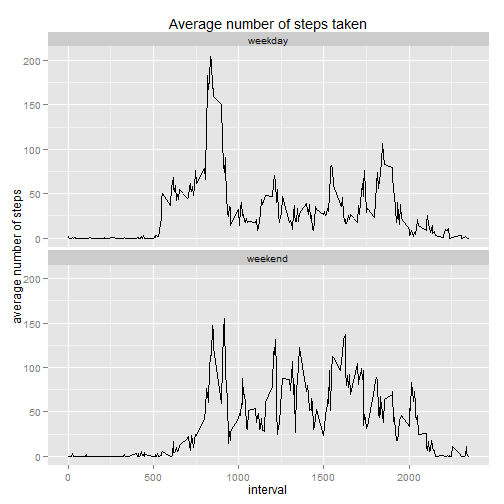
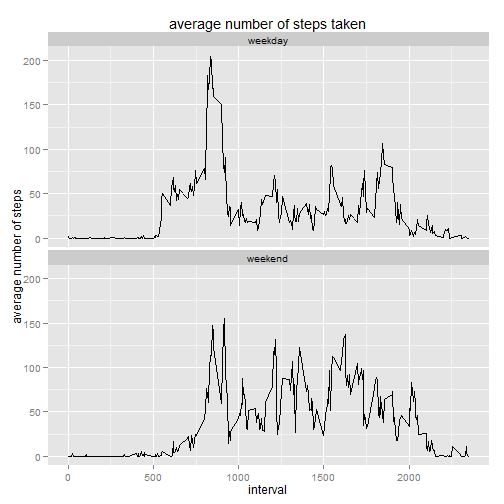
second commit with all files combined in one commit, i.e. PA1_template.Rmd, PA1_template.md, PA1_template.html & figures

Changed region(s): [[0.3274, 0.0298, 0.744, 0.0595]]

diff --git a/PA1_template.html b/PA1_template.html
@@ -296,8 +296,8 @@ stepsDay
 hist(stepsDay$steps_per_day, 
 
      col = &quot;deepskyblue&quot;,
-     main = &quot;Histogram of total number of steps taken per day&quot;,
-     xlab = &quot;Total number of steps per day&quot;
+     main = &quot;histogram of total number of steps taken per day&quot;,
+     xlab = &quot;total number of steps per day&quot;
      )
 
 ## superimpose two vertical lines on the histogram, representing the mean and median of steps taken per day
@@ -306,7 +306,7 @@ abline(v = mean(stepsDay$steps_per_day), lwd = 2, col = &quot;red&quot;)
 abline(v = median(stepsDay$steps_per_day), lwd = 2, col = &quot;green4&quot;)
 </code></pre>
 
[2 lines of base64/hex data omitted]
 
 <pre><code class="r">## calculate and report the mean and median of the total number of steps taken per day
 
@@ -362,12 +362,12 @@ with(averageSteps,
 
                 type = &quot;l&quot;, 
                 xlab = &quot;&quot;, 
-                ylab = &quot;Average number of steps&quot;,
-                main = &quot;Average number of steps acrosss all days&quot;)
+                ylab = &quot;average number of steps&quot;,
+                main = &quot;average number of steps acrosss all days&quot;)
         )
 </code></pre>
 
[2 lines of base64/hex data omitted]
 
 <pre><code class="r">## Calculate and report the 5-minute interval that contains on average across
 ## all days the maximum number of steps.
@@ -481,8 +481,8 @@ stepsDayNew
 <pre><code class="r">hist(stepsDayNew$steps_per_day,
 
      col = &quot;deepskyblue&quot;,
-     main = &quot;Total number of steps per day with inputted daily median values&quot;,
-     xlab = &quot;Total number of steps per day&quot;
+     main = &quot;total number of steps per day with inputted daily median values&quot;,
+     xlab = &quot;total number of steps per day&quot;
 
      )
 
@@ -490,7 +490,7 @@ abline(v = mean(stepsDayNew$steps_per_day), lwd = 2, col = &quot;red&quot;)
 abline(v = median(stepsDayNew$steps_per_day), lwd = 2, col = &quot;green4&quot;)
 </code></pre>
 
[2 lines of base64/hex data omitted]
 
 <pre><code class="r">summary(stepsDayNew$steps_per_day)
 </code></pre>
@@ -602,10 +602,10 @@ library(ggplot2)
 
 g &lt;- ggplot(paneldf, aes(interval, average_steps))
 
-g + geom_line() + facet_wrap( ~ type_of_day , nrow = 2, ncol = 1) + labs(title = &quot;Average number of steps taken&quot;) + labs(x= &quot;interval&quot;, y = &quot;average number of steps&quot;)
+g + geom_line() + facet_wrap( ~ type_of_day , nrow = 2, ncol = 1) + labs(title = &quot;average number of steps taken&quot;) + labs(x= &quot;interval&quot;, y = &quot;average number of steps&quot;)
 </code></pre>
 
[2 lines of base64/hex data omitted]
 
 </body>
 

diff --git a/PA1_template.md b/PA1_template.md
@@ -1,8 +1,8 @@
 # Peer_Assessment_1_Coursera_Reproducible_Research
 
-author: Micha Bouts
+  author: Micha Bouts
 
-date: Tuesday, August 4th, 2015
+  date: Tuesday, August 4th, 2015
 
 
 ### Description of working environment
@@ -106,8 +106,8 @@ stepsDay
 hist(stepsDay$steps_per_day, 
      
      col = "deepskyblue",
-     main = "Histogram of total number of steps taken per day",
-     xlab = "Total number of steps per day"
+     main = "histogram of total number of steps taken per day",
+     xlab = "total number of steps per day"
      )
 
 ## superimpose two vertical lines on the histogram, representing the mean and median of steps taken per day
@@ -177,8 +177,8 @@ with(averageSteps,
                 
                 type = "l", 
                 xlab = "", 
-                ylab = "Average number of steps",
-                main = "Average number of steps acrosss all days")
+                ylab = "average number of steps",
+                main = "average number of steps acrosss all days")
         )
 ```
 
@@ -306,8 +306,8 @@ stepsDayNew
 hist(stepsDayNew$steps_per_day,
      
      col = "deepskyblue",
-     main = "Total number of steps per day with inputted daily median values",
-     xlab = "Total number of steps per day"
+     main = "total number of steps per day with inputted daily median values",
+     xlab = "total number of steps per day"
      
      )
 
@@ -441,7 +441,7 @@ library(ggplot2)
 
 g <- ggplot(paneldf, aes(interval, average_steps))
 
-g + geom_line() + facet_wrap( ~ type_of_day , nrow = 2, ncol = 1) + labs(title = "Average number of steps taken") + labs(x= "interval", y = "average number of steps")
+g + geom_line() + facet_wrap( ~ type_of_day , nrow = 2, ncol = 1) + labs(title = "average number of steps taken") + labs(x= "interval", y = "average number of steps")
 ```
 
 ![plot of chunk panel_plot_time_series_weekdays_versus_weekend_chunk](figure/panel_plot_time_series_weekdays_versus_weekend_chunk-1.png) 
